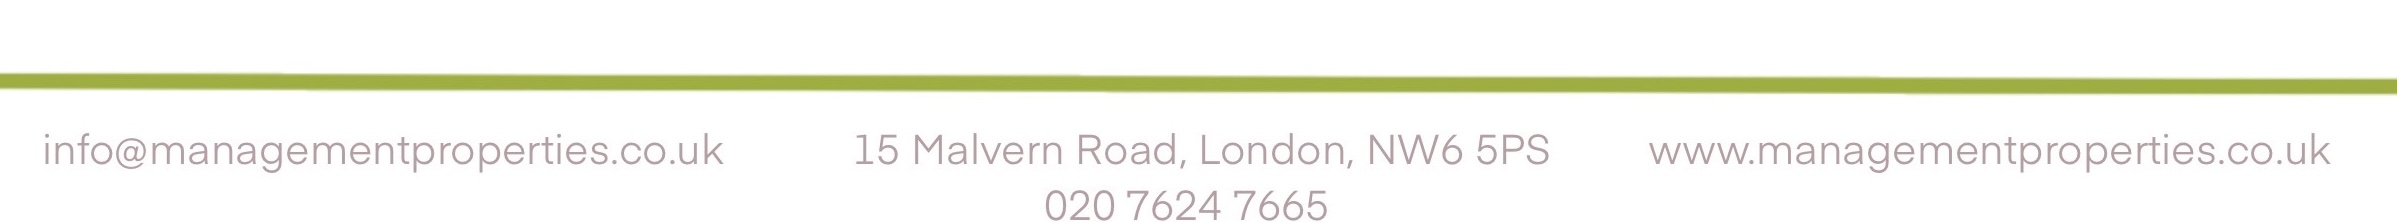
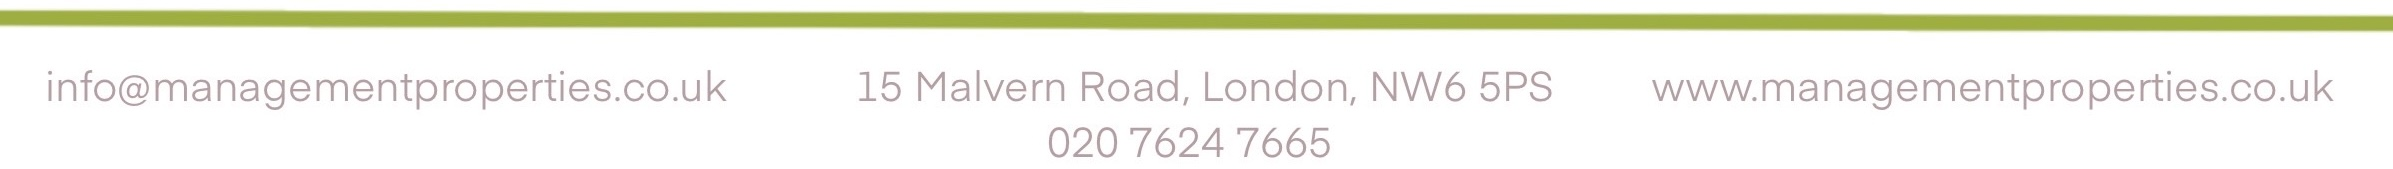
updates

diff --git a/dist/assets/index-duWpt8TT.css b/dist/assets/index-duWpt8TT.css
@@ -1,0 +1,1 @@
[1 lines of base64/hex data omitted]

diff --git a/dist/assets/index-DpU5dUUX.js b/dist/assets/index-DpU5dUUX.js
@@ -110,4 +110,4 @@ Please change the parent <Route path="${q}"> to <Route path="${q==="/"?"*":`${q}
  *
  * This source code is licensed under the ISC license.
  * See the LICENSE file in the root directory of this source tree.
- */const pM=[["path",{d:"m21 21-4.34-4.34",key:"14j7rj"}],["circle",{cx:"11",cy:"11",r:"8",key:"4ej97u"}]],gM=Oo("search",pM),vM="/assets/header-CZPyFQj8.jpg",yM="/assets/footer-wnThCqYN.jpg",Kr="#8CBF45",_M=[{title:"Letting Only",items:["Annual Fee","Sourcing a tenant","Full referencing","Arrangement of EPC’s, Gas Safety Inspections","In-house inventory"]},{title:"Rent Collection",items:["Fees collected on a Monthly basis","Monthly rental collection","Pursue non-payment of rent and advice on rent arrears","Sourcing a tenant","Full referencing","Arrangement of EPC’s, Gas Safety Inspections","In-house inventory"]},{title:"Fully Managed",items:["Fees collected on a Monthly basis","Monthly rental collection","Pursue non-payment of rent and advice on rent arrears","Sourcing a tenant","Full referencing","Arrangement of EPC’s, Gas Safety Inspections","In-house inventory","Routine inspections","First point of contact for Tenants","Obtaining quotes and arranging for repairs"]}],xM=[{title:"Other Landlord Fees",cta:"Click here",to:"#"},{title:"Tenants Fees",cta:"Click here",to:"#"}],Lh={title:"Sales",items:["On Completion","Comprehensive Marketing","Arrangement of EPC’s","Accompanied viewings if required"]};function sy({card:a}){return z.jsxs("article",{className:"rounded-lg bg-white shadow-sm ring-1 ring-zinc-200 overflow-hidden",children:[z.jsx("div",{className:"px-5 py-3 text-white font-semibold",style:{backgroundColor:Kr},children:a.title}),z.jsxs("div",{className:"p-5",children:[a.items&&z.jsx("ul",{className:"text-sm text-zinc-700",children:a.items.map((s,l)=>z.jsxs("li",{className:"py-2",children:[s,l!==a.items.length-1&&z.jsx("div",{className:"mt-2 border-t border-zinc-200/70"})]},l))}),a.cta&&z.jsx("div",{className:"mt-4",children:z.jsx(Hn,{to:a.to||"#",className:"inline-flex items-center justify-center rounded-md px-4 py-2 text-white",style:{backgroundColor:Kr},children:a.cta})})]})]})}function bM(){return z.jsxs("main",{className:"bg-zinc-50",children:[z.jsx("div",{className:"max-w-7xl mx-auto px-4 py-8",children:z.jsx("h1",{className:"text-2xl font-semibold text-zinc-900",children:"Services & Fees"})}),z.jsxs("div",{className:"max-w-7xl mx-auto px-4 pb-8 grid gap-6",children:[z.jsx("div",{className:"grid gap-6 md:grid-cols-2 lg:grid-cols-3",children:_M.map((a,s)=>z.jsx(sy,{card:a},s))}),z.jsxs("div",{className:"grid gap-6 md:grid-cols-2 lg:grid-cols-3 items-start",children:[xM.map((a,s)=>z.jsx(sy,{card:a},s)),z.jsxs("article",{className:"rounded-lg bg-white shadow-sm ring-1 ring-zinc-200 overflow-hidden lg:row-span-2",children:[z.jsx("div",{className:"px-5 py-3 text-white font-semibold",style:{backgroundColor:Kr},children:Lh.title}),z.jsxs("div",{className:"p-5",children:[z.jsx("ul",{className:"text-sm text-zinc-700",children:Lh.items.map((a,s)=>z.jsxs("li",{className:"py-2",children:[a,s!==Lh.items.length-1&&z.jsx("div",{className:"mt-2 border-t border-zinc-200/70"})]},s))}),z.jsx("div",{className:"mt-4",children:z.jsx(Hn,{to:"#",className:"inline-flex items-center justify-center rounded-md px-4 py-2 text-white",style:{backgroundColor:Kr},children:"More Info"})})]})]})]})]}),z.jsx("section",{className:"border-t py-10",style:{borderColor:Kr},children:z.jsxs("div",{className:"max-w-7xl mx-auto px-4",children:[z.jsx("h2",{className:"text-lg font-medium text-zinc-900 mb-2",children:"Need More Information?"}),z.jsxs("p",{className:"text-sm text-zinc-600",children:["One of our friendly experienced staff can answer all your questions. Call us today on"," ",z.jsx("a",{href:"tel:02084518888",className:"font-medium underline",children:"020 8451 8888"}),"."]})]})})]})}const TM=fb.icon({iconUrl:"https://unpkg.com/leaflet@1.9.4/dist/images/marker-icon.png",iconRetinaUrl:"https://unpkg.com/leaflet@1.9.4/dist/images/marker-icon-2x.png",shadowUrl:"https://unpkg.com/leaflet@1.9.4/dist/images/marker-shadow.png",iconSize:[25,41],iconAnchor:[12,41],popupAnchor:[1,-34],shadowSize:[41,41]}),ic=[{id:1,title:"Extramead Road, Kensal Green",address:"NW10 5QD",area:"Kensal Green",price:950,priceUnit:"pcm",status:"rent",beds:1,baths:1,wifi:!0,billsIncluded:!0,img:"https://images.unsplash.com/photo-1600585154526-990dced4db0d?q=80&w=1200&auto=format&fit=crop",featured:!1,coord:[51.531,-.226]},{id:2,title:"High Road, Willesden",address:"NW10 2DY",area:"Willesden",price:45e4,priceUnit:"pa",status:"sale",beds:2,baths:1,img:"https://images.unsplash.com/photo-1599423300746-b62533397364?q=80&w=1200&auto=format&fit=crop",featured:!1,coord:[51.548,-.232]},{id:3,title:"Brindley Close, Alperton",address:"HA0 1BT",area:"Alperton",price:1295,priceUnit:"pcm",status:"rent",beds:1,baths:1,img:"https://images.unsplash.com/photo-1522708323590-d24dbb6b0267?q=80&w=1200&auto=format&fit=crop",featured:!0,coord:[51.538,-.3006]},{id:4,title:"Lichfield Gardens, Willesden",address:"NW10 2LL",area:"Willesden",price:2100,priceUnit:"pcm",status:"rent",beds:3,baths:2,img:"https://images.unsplash.com/photo-1507089947368-19c1da9775ae?q=80&w=1200&auto=format&fit=crop",featured:!0,coord:[51.544,-.225]},{id:6,title:"Weston Court, Paddington",address:"W2 1ED",area:"Paddington",price:3e5,priceUnit:"pa",status:"sale",beds:1,baths:1,img:"https://images.unsplash.com/photo-1564013799919-ab600027ffc6?q=80&w=1200&auto=format&fit=crop",featured:!1,coord:[51.515,-.176]},{id:7,title:"Broadway, West Hendon",address:"NW9 7YU",area:"West Hendon",price:4400,priceUnit:"pcm",status:"rent",beds:4,baths:3,img:"https://images.unsplash.com/photo-1501183638710-841dd1904471?q=80&w=1200&auto=format&fit=crop",featured:!0,coord:[51.586,-.238]},{id:8,title:"Dollis Hill House",address:"NW10 1ED",area:"Dollis Hill",price:1700,priceUnit:"pcm",status:"rent",beds:2,baths:2,img:"https://images.unsplash.com/photo-1582268611958-ebfd161ef9cf?q=80&w=1200&auto=format&fit=crop",featured:!1,coord:[51.564,-.235]},{id:9,title:"Neasden Village Way",address:"NW10 0LH",area:"Neasden",price:15e3,priceUnit:"pa",status:"sale",beds:3,baths:2,img:"https://images.unsplash.com/photo-1536376072261-38c75010e6c9?q=80&w=1200&auto=format&fit=crop",featured:!0,coord:[51.561,-.252]},{id:10,title:"Wembley Central Studio",address:"HA9 7AA",area:"Wembley",price:1250,priceUnit:"pcm",status:"rent",beds:1,baths:1,img:"https://images.unsplash.com/photo-1560518883-ce09059eeffa?q=80&w=1200&auto=format&fit=crop",featured:!1,coord:[51.552,-.296]}];function o0(a){return new Intl.NumberFormat("en-GB",{style:"currency",currency:"GBP",maximumFractionDigits:0}).format(a)}function Ch({value:a,unit:s}){return z.jsxs("div",{className:"inline-flex items-center gap-1 rounded-full bg-emerald-50 text-emerald-700 px-2 py-1 text-xs font-medium",children:[z.jsx(mM,{className:"h-3 w-3"}),o0(a)," ",s]})}function Rh({icon:a,children:s}){return z.jsxs("div",{className:"inline-flex items-center gap-1 text-zinc-600 text-sm",children:[a,s]})}function SM(){const a="#8CBF45";return z.jsxs("header",{className:"sticky top-0 z-40",style:{backgroundColor:a},children:[z.jsx("div",{className:"w-full",style:{backgroundColor:"white"},children:z.jsx("img",{src:vM,alt:"Management Properties — Sales, Lettings & Management",className:"mx-auto object-contain",style:{height:"90px"}})}),z.jsxs("nav",{className:"max-w-7xl mx-auto px-4 py-2 flex items-center gap-6 text-sm text-white",style:{backgroundColor:a},children:[z.jsx(ja,{to:"/",end:!0,className:({isActive:s})=>s?"underline":"hover:underline",children:"Home"}),z.jsx(ja,{to:"/for-sale",className:({isActive:s})=>s?"underline":"hover:underline",children:"For Sale"}),z.jsx(ja,{to:"/for-rent",className:({isActive:s})=>s?"underline":"hover:underline",children:"For Rent"}),z.jsx(ja,{to:"/landlords",className:({isActive:s})=>s?"underline":"hover:underline",children:"Landlords"}),z.jsx(ja,{to:"/contact",className:({isActive:s})=>s?"underline":"hover:underline",children:"Contact"}),z.jsx(ja,{to:"/services",className:({isActive:s})=>s?"underline":"hover:underline",children:"Services & Fees"}),z.jsx(ja,{to:"/list",className:"ml-auto rounded-xl bg-white px-3 py-1",style:{color:a},children:"List your property"})]})]})}function wM(){return z.jsx("footer",{className:"border-t mt-8",style:{backgroundColor:"white",borderColor:"white"},children:z.jsx("img",{src:yM,alt:"Management Properties — Contact details",className:"w-full",style:{height:"120px",objectFit:"contain",objectPosition:"center"}})})}function oy({mode:a,setMode:s,q:l,setQ:u,minBeds:d,setMinBeds:g,minBaths:p,setMinBaths:b,priceFrom:y,setPriceFrom:_,priceTo:T,setPriceTo:E}){return z.jsxs(z.Fragment,{children:[z.jsxs("div",{className:"flex items-center gap-3 mb-3",children:[z.jsx("button",{onClick:()=>s("rent"),className:`px-3 py-1.5 rounded-full text-sm border ${a==="rent"?"bg-sky-600 text-white border-sky-600":"bg-white text-zinc-700 border-zinc-300"}`,children:"For Rent"}),z.jsx("button",{onClick:()=>s("sale"),className:`px-3 py-1.5 rounded-full text-sm border ${a==="sale"?"bg-sky-600 text-white border-sky-600":"bg-white text-zinc-700 border-zinc-300"}`,children:"For Sale"})]}),z.jsx("label",{className:"block text-xs font-medium text-zinc-600",children:"Location"}),z.jsxs("div",{className:"relative mt-1 mb-3",children:[z.jsx(gM,{className:"absolute left-2 top-1/2 -translate-y-1/2 h-4 w-4 text-zinc-400"}),z.jsx("input",{value:l,onChange:M=>u(M.target.value),placeholder:"Search area, street or code",className:"w-full rounded-lg border border-zinc-300 pl-8 pr-3 py-2 text-sm focus:outline-none focus:ring-2 focus:ring-sky-500"})]}),z.jsxs("div",{className:"grid grid-cols-2 gap-3",children:[z.jsxs("div",{children:[z.jsx("label",{className:"block text-xs font-medium text-zinc-600",children:"Beds (min)"}),z.jsx("select",{value:d,onChange:M=>g(Number(M.target.value)),className:"w-full rounded-lg border border-zinc-300 px-2 py-2 text-sm",children:[0,1,2,3,4].map(M=>z.jsx("option",{value:M,children:M===0?"Any":M},M))})]}),z.jsxs("div",{children:[z.jsx("label",{className:"block text-xs font-medium text-zinc-600",children:"Baths (min)"}),z.jsx("select",{value:p,onChange:M=>b(Number(M.target.value)),className:"w-full rounded-lg border border-zinc-300 px-2 py-2 text-sm",children:[0,1,2,3].map(M=>z.jsx("option",{value:M,children:M===0?"Any":M},M))})]}),z.jsxs("div",{children:[z.jsx("label",{className:"block text-xs font-medium text-zinc-600",children:"Price From"}),z.jsx("input",{type:"number",value:y,onChange:M=>_(M.target.value===""?"":Number(M.target.value)),placeholder:"Any",className:"w-full rounded-lg border border-zinc-300 px-2 py-2 text-sm"})]}),z.jsxs("div",{children:[z.jsx("label",{className:"block text-xs font-medium text-zinc-600",children:"Price To"}),z.jsx("input",{type:"number",value:T,onChange:M=>E(M.target.value===""?"":Number(M.target.value)),placeholder:"Any",className:"w-full rounded-lg border border-zinc-300 px-2 py-2 text-sm"})]})]})]})}function EM(){const[a,s]=D.useState("rent"),[l,u]=D.useState(""),[d,g]=D.useState(0),[p,b]=D.useState(0),[y,_]=D.useState(""),[T,E]=D.useState(""),M=D.useMemo(()=>ic.filter(P=>!(P.status!==a||l&&!(P.area+" "+P.title+" "+P.address).toLowerCase().includes(l.toLowerCase())||d&&P.beds<d||p&&P.baths<p||y!==""&&P.price<Number(y)||T!==""&&P.price>Number(T))),[a,l,d,p,y,T]),U=[51.544,-.23];return z.jsxs(z.Fragment,{children:[z.jsxs("section",{className:"relative",children:[z.jsx("div",{className:"lg:hidden px-4 pt-4",children:z.jsxs("div",{className:"rounded-2xl bg-white shadow-sm ring-1 ring-zinc-200 p-4",children:[z.jsx(oy,{mode:a,setMode:s,q:l,setQ:u,minBeds:d,setMinBeds:g,minBaths:p,setMinBaths:b,priceFrom:y,setPriceFrom:_,priceTo:T,setPriceTo:E}),z.jsx("div",{className:"mt-3 text-right",children:z.jsxs("span",{className:"text-xs text-zinc-500",children:[M.length," result(s)"]})})]})}),z.jsxs("div",{className:"relative h-[360px] md:h-[420px] lg:h-[480px] w-full",children:[z.jsxs(yb,{center:U,zoom:12,scrollWheelZoom:!1,className:"h-full w-full",children:[z.jsx(bb,{attribution:'© <a href="https://www.openstreetmap.org/">OpenStreetMap</a> contributors',url:"https://{s}.tile.openstreetmap.org/{z}/{x}/{y}.png"}),M.map(P=>z.jsx(_b,{position:P.coord,icon:TM,children:z.jsxs(xb,{children:[z.jsx("div",{className:"font-medium",children:P.title}),z.jsx("div",{className:"text-xs text-zinc-600 mb-1",children:P.address}),z.jsx(Ch,{value:P.price,unit:P.priceUnit})]})},P.id))]}),z.jsxs(iy.div,{initial:{opacity:0,y:-8},animate:{opacity:1,y:0},className:"hidden lg:block absolute left-20 top-6 z-[1000] w-[320px] rounded-2xl bg-white/95 shadow-xl ring-1 ring-zinc-200 p-4",children:[z.jsx(oy,{mode:a,setMode:s,q:l,setQ:u,minBeds:d,setMinBeds:g,minBaths:p,setMinBaths:b,priceFrom:y,setPriceFrom:_,priceTo:T,setPriceTo:E}),z.jsx("div",{className:"mt-3 text-right",children:z.jsxs("span",{className:"text-xs text-zinc-500",children:[M.length," result(s)"]})})]})]})]}),z.jsxs("main",{className:"max-w-7xl mx-auto px-4 py-8 grid grid-cols-1 lg:grid-cols-3 gap-8",children:[z.jsxs("section",{className:"lg:col-span-2",children:[z.jsx("h2",{className:"text-xl font-semibold mb-4",children:"Recent Properties"}),z.jsx("div",{className:"grid sm:grid-cols-2 gap-6",children:M.map(P=>z.jsxs(iy.article,{initial:{opacity:0,y:10},whileInView:{opacity:1,y:0},viewport:{once:!0},className:"overflow-hidden rounded-2xl bg-white shadow-sm ring-1 ring-zinc-200",children:[z.jsx(Hn,{to:`/property/${P.id}`,children:z.jsx("div",{className:"aspect-[16/10] w-full overflow-hidden",children:z.jsx("img",{src:P.img,alt:P.title,className:"h-full w-full object-cover"})})}),z.jsxs("div",{className:"p-4",children:[z.jsxs("div",{className:"flex items-center justify-between",children:[z.jsx("span",{className:`text-xs font-semibold rounded px-2 py-1 ${P.status==="rent"?"bg-amber-50 text-amber-700":"bg-blue-50 text-blue-700"}`,children:P.status==="rent"?"For Rent":"For Sale"}),z.jsx(Ch,{value:P.price,unit:P.priceUnit})]}),z.jsx(Hn,{to:`/property/${P.id}`,className:"mt-2 block font-semibold text-lg hover:underline",children:P.title}),z.jsxs("div",{className:"flex items-center gap-1 text-sm text-zinc-600",children:[z.jsx(hM,{className:"h-4 w-4"})," ",P.area,", ",P.address]}),z.jsxs("div",{className:"mt-3 flex items-center gap-4",children:[z.jsx(Rh,{icon:z.jsx(lM,{className:"h-4 w-4"}),children:P.beds}),z.jsx(Rh,{icon:z.jsx(oM,{className:"h-4 w-4"}),children:P.baths}),z.jsx(Rh,{icon:z.jsx(cM,{className:"h-4 w-4"}),children:P.priceUnit.toUpperCase()})]})]})]},P.id))})]}),z.jsxs("aside",{children:[z.jsx("h2",{className:"text-xl font-semibold mb-4",children:"Featured Properties"}),z.jsx("div",{className:"space-y-4",children:ic.filter(P=>P.featured).map(P=>z.jsxs(Hn,{to:`/property/${P.id}`,className:"flex gap-3 rounded-xl bg-white ring-1 ring-zinc-200 p-2 shadow-sm hover:ring-sky-300",children:[z.jsx("img",{src:P.img,alt:P.title,className:"h-20 w-28 object-cover rounded-lg"}),z.jsxs("div",{className:"flex-1",children:[z.jsx("div",{className:"text-xs text-zinc-500",children:P.area}),z.jsx("div",{className:"font-medium leading-tight",children:P.title}),z.jsx("div",{className:"text-xs text-zinc-500",children:P.address}),z.jsx("div",{className:"mt-1",children:z.jsx(Ch,{value:P.price,unit:P.priceUnit})})]})]},P.id))})]})]})]})}function r0({status:a}){const s=D.useMemo(()=>ic.filter(l=>l.status===a),[a]);return z.jsxs("main",{className:"max-w-7xl mx-auto px-4 py-8 grid grid-cols-1 lg:grid-cols-3 gap-8",children:[z.jsxs("section",{className:"lg:col-span-2",children:[z.jsx("h2",{className:"text-xl font-semibold mb-4",children:a==="rent"?"Properties for Rent":"Properties for Sale"}),z.jsx("div",{className:"grid sm:grid-cols-2 gap-6",children:s.map(l=>z.jsxs("article",{className:"overflow-hidden rounded-2xl bg-white shadow-sm ring-1 ring-zinc-200",children:[z.jsx(Hn,{to:`/property/${l.id}`,children:z.jsx("div",{className:"aspect-[16/10] w-full overflow-hidden",children:z.jsx("img",{src:l.img,alt:l.title,className:"h-full w-full object-cover"})})}),z.jsxs("div",{className:"p-4",children:[z.jsx(Hn,{to:`/property/${l.id}`,className:"font-semibold text-lg hover:underline",children:l.title}),z.jsxs("div",{className:"text-sm text-zinc-600",children:[l.area,", ",l.address]})]})]},l.id))})]}),z.jsx("aside",{children:z.jsx("h2",{className:"text-xl font-semibold mb-4",children:"Featured Properties"})})]})}function MM(){return z.jsx(r0,{status:"sale"})}function AM(){return z.jsx(r0,{status:"rent"})}function LM(){const{id:a}=l1(),s=ic.find(l=>l.id===Number(a));return s?z.jsx("main",{className:"max-w-5xl mx-auto px-4 py-8",children:z.jsxs("div",{className:"grid lg:grid-cols-5 gap-8",children:[z.jsxs("div",{className:"lg:col-span-3",children:[z.jsx("div",{className:"aspect-[16/10] w-full overflow-hidden rounded-2xl",children:z.jsx("img",{src:s.img,alt:s.title,className:"h-full w-full object-cover"})}),z.jsxs("div",{className:"mt-4 text-sm text-zinc-600",children:[s.area," • ",s.address]})]}),z.jsxs("aside",{className:"lg:col-span-2",children:[z.jsx("h1",{className:"text-2xl font-semibold",children:s.title}),z.jsxs("div",{className:"mt-3 text-lg font-medium",children:[o0(s.price)," ",s.priceUnit]}),z.jsxs("ul",{className:"mt-4 space-y-1 text-zinc-700",children:[z.jsxs("li",{children:["Bedrooms: ",s.beds]}),z.jsxs("li",{children:["Bathrooms: ",s.baths]}),z.jsxs("li",{children:["Status: ",s.status==="rent"?"For Rent":"For Sale"]})]}),z.jsx("div",{className:"mt-6",children:z.jsx(Hn,{to:"/contact",className:"rounded-xl bg-sky-600 hover:bg-sky-700 text-white px-4 py-2",children:"Arrange a viewing"})})]})]})}):z.jsxs("main",{className:"max-w-5xl mx-auto px-4 py-10",children:[z.jsx("p",{className:"text-zinc-700",children:"Property not found."}),z.jsx(Hn,{to:"/",className:"text-sky-600",children:"Back to home"})]})}function qu({text:a}){return z.jsx("main",{className:"max-w-5xl mx-auto px-4 py-10 text-zinc-700",children:a})}function CM(){return z.jsx(X1,{children:z.jsxs("div",{className:"min-h-screen bg-zinc-50 text-zinc-900",children:[z.jsx(SM,{}),z.jsxs(S1,{children:[z.jsx(ii,{path:"/",element:z.jsx(EM,{})}),z.jsx(ii,{path:"/for-sale",element:z.jsx(MM,{})}),z.jsx(ii,{path:"/for-rent",element:z.jsx(AM,{})}),z.jsx(ii,{path:"/property/:id",element:z.jsx(LM,{})}),z.jsx(ii,{path:"/landlords",element:z.jsx(qu,{text:"Landlords page (todo)"})}),z.jsx(ii,{path:"/contact",element:z.jsx(qu,{text:"Contact page (todo)"})}),z.jsx(ii,{path:"/services",element:z.jsx(bM,{})}),z.jsx(ii,{path:"/list",element:z.jsx(qu,{text:"List your property form (todo)"})}),z.jsx(ii,{path:"*",element:z.jsx(qu,{text:"404 – Page not found"})})]}),z.jsx(wM,{})]})})}Ox.createRoot(document.getElementById("root")).render(z.jsx(Iu.StrictMode,{children:z.jsx(CM,{})}));
+ */const pM=[["path",{d:"m21 21-4.34-4.34",key:"14j7rj"}],["circle",{cx:"11",cy:"11",r:"8",key:"4ej97u"}]],gM=Oo("search",pM),vM="/assets/header-CZPyFQj8.jpg",yM="/assets/footer-wnThCqYN.jpg",Kr="#8CBF45",_M=[{title:"Letting Only",items:["Annual Fee","7%","Sourcing a tenant","Full referencing","Arrangement of EPC’s, Gas Safety Inspections","In-house inventory"]},{title:"Rent Collection",items:["Fees collected on a Monthly basis","8%","Monthly rental collection","Pursue non-payment of rent and advice on rent arrears","Sourcing a tenant","Full referencing","Arrangement of EPC’s, Gas Safety Inspections","In-house inventory"]},{title:"Fully Managed",items:["Fees collected on a Monthly basis","10%","Monthly rental collection","Pursue non-payment of rent and advice on rent arrears","Sourcing a tenant","Full referencing","Arrangement of EPC’s, Gas Safety Inspections","In-house inventory","Routine inspections","First point of contact for Tenants","Obtaining quotes and arranging for repairs"]}],xM=[{title:"Other Landlord Fees",cta:"Click here",to:"#"},{title:"Tenants Fees",cta:"Click here",to:"#"}],Lh={title:"Sales",items:["On Completion","Comprehensive Marketing","Arrangement of EPC’s","Accompanied viewings if required"]};function sy({card:a}){return z.jsxs("article",{className:"rounded-lg bg-white shadow-sm ring-1 ring-zinc-200 overflow-hidden",children:[z.jsx("div",{className:"px-5 py-3 text-white font-semibold",style:{backgroundColor:Kr},children:a.title}),z.jsxs("div",{className:"p-5",children:[a.items&&z.jsx("ul",{className:"text-sm text-zinc-700",children:a.items.map((s,l)=>z.jsxs("li",{className:"py-2",children:[s,l!==a.items.length-1&&z.jsx("div",{className:"mt-2 border-t border-zinc-200/70"})]},l))}),a.cta&&z.jsx("div",{className:"mt-4",children:z.jsx(Hn,{to:a.to||"#",className:"inline-flex items-center justify-center rounded-md px-4 py-2 text-white",style:{backgroundColor:Kr},children:a.cta})})]})]})}function bM(){return z.jsxs("main",{className:"bg-zinc-50",children:[z.jsx("div",{className:"max-w-7xl mx-auto px-4 py-8",children:z.jsx("h1",{className:"text-2xl font-semibold text-zinc-900",children:"Services & Fees"})}),z.jsxs("div",{className:"max-w-7xl mx-auto px-4 pb-8 grid gap-6",children:[z.jsx("div",{className:"grid gap-6 md:grid-cols-2 lg:grid-cols-3",children:_M.map((a,s)=>z.jsx(sy,{card:a},s))}),z.jsxs("div",{className:"grid gap-6 md:grid-cols-2 lg:grid-cols-3 items-start",children:[xM.map((a,s)=>z.jsx(sy,{card:a},s)),z.jsxs("article",{className:"rounded-lg bg-white shadow-sm ring-1 ring-zinc-200 overflow-hidden lg:row-span-2",children:[z.jsx("div",{className:"px-5 py-3 text-white font-semibold",style:{backgroundColor:Kr},children:Lh.title}),z.jsxs("div",{className:"p-5",children:[z.jsx("ul",{className:"text-sm text-zinc-700",children:Lh.items.map((a,s)=>z.jsxs("li",{className:"py-2",children:[a,s!==Lh.items.length-1&&z.jsx("div",{className:"mt-2 border-t border-zinc-200/70"})]},s))}),z.jsx("div",{className:"mt-4",children:z.jsx(Hn,{to:"#",className:"inline-flex items-center justify-center rounded-md px-4 py-2 text-white",style:{backgroundColor:Kr},children:"More Info"})})]})]})]})]}),z.jsx("section",{className:"border-t py-10",style:{borderColor:Kr},children:z.jsxs("div",{className:"max-w-7xl mx-auto px-4",children:[z.jsx("h2",{className:"text-lg font-medium text-zinc-900 mb-2",children:"Need More Information?"}),z.jsxs("p",{className:"text-sm text-zinc-600",children:["One of our friendly experienced staff can answer all your questions. Call us today on"," ",z.jsx("a",{href:"tel:02084518888",className:"font-medium underline",children:"020 8451 8888"}),"."]})]})})]})}const TM=fb.icon({iconUrl:"https://unpkg.com/leaflet@1.9.4/dist/images/marker-icon.png",iconRetinaUrl:"https://unpkg.com/leaflet@1.9.4/dist/images/marker-icon-2x.png",shadowUrl:"https://unpkg.com/leaflet@1.9.4/dist/images/marker-shadow.png",iconSize:[25,41],iconAnchor:[12,41],popupAnchor:[1,-34],shadowSize:[41,41]}),ic=[{id:1,title:"Extramead Road, Kensal Green",address:"NW10 5QD",area:"Kensal Green",price:950,priceUnit:"pcm",status:"rent",beds:1,baths:1,wifi:!0,billsIncluded:!0,img:"https://images.unsplash.com/photo-1600585154526-990dced4db0d?q=80&w=1200&auto=format&fit=crop",featured:!1,coord:[51.531,-.226]},{id:2,title:"High Road, Willesden",address:"NW10 2DY",area:"Willesden",price:45e4,priceUnit:"pa",status:"sale",beds:2,baths:1,img:"https://images.unsplash.com/photo-1599423300746-b62533397364?q=80&w=1200&auto=format&fit=crop",featured:!1,coord:[51.548,-.232]},{id:3,title:"Brindley Close, Alperton",address:"HA0 1BT",area:"Alperton",price:1295,priceUnit:"pcm",status:"rent",beds:1,baths:1,img:"https://images.unsplash.com/photo-1522708323590-d24dbb6b0267?q=80&w=1200&auto=format&fit=crop",featured:!0,coord:[51.538,-.3006]},{id:4,title:"Lichfield Gardens, Willesden",address:"NW10 2LL",area:"Willesden",price:2100,priceUnit:"pcm",status:"rent",beds:3,baths:2,img:"https://images.unsplash.com/photo-1507089947368-19c1da9775ae?q=80&w=1200&auto=format&fit=crop",featured:!0,coord:[51.544,-.225]},{id:6,title:"Weston Court, Paddington",address:"W2 1ED",area:"Paddington",price:3e5,priceUnit:"pa",status:"sale",beds:1,baths:1,img:"https://images.unsplash.com/photo-1564013799919-ab600027ffc6?q=80&w=1200&auto=format&fit=crop",featured:!1,coord:[51.515,-.176]},{id:7,title:"Broadway, West Hendon",address:"NW9 7YU",area:"West Hendon",price:4400,priceUnit:"pcm",status:"rent",beds:4,baths:3,img:"https://images.unsplash.com/photo-1501183638710-841dd1904471?q=80&w=1200&auto=format&fit=crop",featured:!0,coord:[51.586,-.238]},{id:8,title:"Dollis Hill House",address:"NW10 1ED",area:"Dollis Hill",price:1700,priceUnit:"pcm",status:"rent",beds:2,baths:2,img:"https://images.unsplash.com/photo-1582268611958-ebfd161ef9cf?q=80&w=1200&auto=format&fit=crop",featured:!1,coord:[51.564,-.235]},{id:9,title:"Neasden Village Way",address:"NW10 0LH",area:"Neasden",price:15e3,priceUnit:"pa",status:"sale",beds:3,baths:2,img:"https://images.unsplash.com/photo-1536376072261-38c75010e6c9?q=80&w=1200&auto=format&fit=crop",featured:!0,coord:[51.561,-.252]},{id:10,title:"Wembley Central Studio",address:"HA9 7AA",area:"Wembley",price:1250,priceUnit:"pcm",status:"rent",beds:1,baths:1,img:"https://images.unsplash.com/photo-1560518883-ce09059eeffa?q=80&w=1200&auto=format&fit=crop",featured:!1,coord:[51.552,-.296]}];function o0(a){return new Intl.NumberFormat("en-GB",{style:"currency",currency:"GBP",maximumFractionDigits:0}).format(a)}function Ch({value:a,unit:s}){return z.jsxs("div",{className:"inline-flex items-center gap-1 rounded-full bg-emerald-50 text-emerald-700 px-2 py-1 text-xs font-medium",children:[z.jsx(mM,{className:"h-3 w-3"}),o0(a)," ",s]})}function Rh({icon:a,children:s}){return z.jsxs("div",{className:"inline-flex items-center gap-1 text-zinc-600 text-sm",children:[a,s]})}function SM(){const a="#8CBF45";return z.jsxs("header",{className:"sticky top-0 z-40",style:{backgroundColor:a},children:[z.jsx("div",{className:"w-full",style:{backgroundColor:"white"},children:z.jsx("img",{src:vM,alt:"Management Properties — Sales, Lettings & Management",className:"mx-auto object-contain",style:{height:"90px"}})}),z.jsxs("nav",{className:"max-w-7xl mx-auto px-4 py-2 flex items-center gap-6 text-sm text-white",style:{backgroundColor:a},children:[z.jsx(ja,{to:"/",end:!0,className:({isActive:s})=>s?"underline":"hover:underline",children:"Home"}),z.jsx(ja,{to:"/for-sale",className:({isActive:s})=>s?"underline":"hover:underline",children:"For Sale"}),z.jsx(ja,{to:"/for-rent",className:({isActive:s})=>s?"underline":"hover:underline",children:"For Rent"}),z.jsx(ja,{to:"/landlords",className:({isActive:s})=>s?"underline":"hover:underline",children:"Landlords"}),z.jsx(ja,{to:"/contact",className:({isActive:s})=>s?"underline":"hover:underline",children:"Contact"}),z.jsx(ja,{to:"/services",className:({isActive:s})=>s?"underline":"hover:underline",children:"Services & Fees"}),z.jsx(ja,{to:"/list",className:"ml-auto rounded-xl bg-white px-3 py-1",style:{color:a},children:"List your property"})]})]})}function wM(){return z.jsx("footer",{className:"border-t mt-8",style:{backgroundColor:"white",borderColor:"white"},children:z.jsx("img",{src:yM,alt:"Management Properties — Contact details",className:"w-full",style:{height:"120px",objectFit:"contain",objectPosition:"center"}})})}function oy({mode:a,setMode:s,q:l,setQ:u,minBeds:d,setMinBeds:g,minBaths:p,setMinBaths:b,priceFrom:y,setPriceFrom:_,priceTo:T,setPriceTo:E}){return z.jsxs(z.Fragment,{children:[z.jsxs("div",{className:"flex items-center gap-3 mb-3",children:[z.jsx("button",{onClick:()=>s("rent"),className:`px-3 py-1.5 rounded-full text-sm border ${a==="rent"?"bg-sky-600 text-white border-sky-600":"bg-white text-zinc-700 border-zinc-300"}`,children:"For Rent"}),z.jsx("button",{onClick:()=>s("sale"),className:`px-3 py-1.5 rounded-full text-sm border ${a==="sale"?"bg-sky-600 text-white border-sky-600":"bg-white text-zinc-700 border-zinc-300"}`,children:"For Sale"})]}),z.jsx("label",{className:"block text-xs font-medium text-zinc-600",children:"Location"}),z.jsxs("div",{className:"relative mt-1 mb-3",children:[z.jsx(gM,{className:"absolute left-2 top-1/2 -translate-y-1/2 h-4 w-4 text-zinc-400"}),z.jsx("input",{value:l,onChange:M=>u(M.target.value),placeholder:"Search area, street or code",className:"w-full rounded-lg border border-zinc-300 pl-8 pr-3 py-2 text-sm focus:outline-none focus:ring-2 focus:ring-sky-500"})]}),z.jsxs("div",{className:"grid grid-cols-2 gap-3",children:[z.jsxs("div",{children:[z.jsx("label",{className:"block text-xs font-medium text-zinc-600",children:"Beds (min)"}),z.jsx("select",{value:d,onChange:M=>g(Number(M.target.value)),className:"w-full rounded-lg border border-zinc-300 px-2 py-2 text-sm",children:[0,1,2,3,4].map(M=>z.jsx("option",{value:M,children:M===0?"Any":M},M))})]}),z.jsxs("div",{children:[z.jsx("label",{className:"block text-xs font-medium text-zinc-600",children:"Baths (min)"}),z.jsx("select",{value:p,onChange:M=>b(Number(M.target.value)),className:"w-full rounded-lg border border-zinc-300 px-2 py-2 text-sm",children:[0,1,2,3].map(M=>z.jsx("option",{value:M,children:M===0?"Any":M},M))})]}),z.jsxs("div",{children:[z.jsx("label",{className:"block text-xs font-medium text-zinc-600",children:"Price From"}),z.jsx("input",{type:"number",value:y,onChange:M=>_(M.target.value===""?"":Number(M.target.value)),placeholder:"Any",className:"w-full rounded-lg border border-zinc-300 px-2 py-2 text-sm"})]}),z.jsxs("div",{children:[z.jsx("label",{className:"block text-xs font-medium text-zinc-600",children:"Price To"}),z.jsx("input",{type:"number",value:T,onChange:M=>E(M.target.value===""?"":Number(M.target.value)),placeholder:"Any",className:"w-full rounded-lg border border-zinc-300 px-2 py-2 text-sm"})]})]})]})}function EM(){const[a,s]=D.useState("rent"),[l,u]=D.useState(""),[d,g]=D.useState(0),[p,b]=D.useState(0),[y,_]=D.useState(""),[T,E]=D.useState(""),M=D.useMemo(()=>ic.filter(P=>!(P.status!==a||l&&!(P.area+" "+P.title+" "+P.address).toLowerCase().includes(l.toLowerCase())||d&&P.beds<d||p&&P.baths<p||y!==""&&P.price<Number(y)||T!==""&&P.price>Number(T))),[a,l,d,p,y,T]),U=[51.544,-.23];return z.jsxs(z.Fragment,{children:[z.jsxs("section",{className:"relative",children:[z.jsx("div",{className:"lg:hidden px-4 pt-4",children:z.jsxs("div",{className:"rounded-2xl bg-white shadow-sm ring-1 ring-zinc-200 p-4",children:[z.jsx(oy,{mode:a,setMode:s,q:l,setQ:u,minBeds:d,setMinBeds:g,minBaths:p,setMinBaths:b,priceFrom:y,setPriceFrom:_,priceTo:T,setPriceTo:E}),z.jsx("div",{className:"mt-3 text-right",children:z.jsxs("span",{className:"text-xs text-zinc-500",children:[M.length," result(s)"]})})]})}),z.jsxs("div",{className:"relative h-[360px] md:h-[420px] lg:h-[480px] w-full",children:[z.jsxs(yb,{center:U,zoom:12,scrollWheelZoom:!1,className:"h-full w-full",children:[z.jsx(bb,{attribution:'© <a href="https://www.openstreetmap.org/">OpenStreetMap</a> contributors',url:"https://{s}.tile.openstreetmap.org/{z}/{x}/{y}.png"}),M.map(P=>z.jsx(_b,{position:P.coord,icon:TM,children:z.jsxs(xb,{children:[z.jsx("div",{className:"font-medium",children:P.title}),z.jsx("div",{className:"text-xs text-zinc-600 mb-1",children:P.address}),z.jsx(Ch,{value:P.price,unit:P.priceUnit})]})},P.id))]}),z.jsxs(iy.div,{initial:{opacity:0,y:-8},animate:{opacity:1,y:0},className:"hidden lg:block absolute left-20 top-6 z-[1000] w-[320px] rounded-2xl bg-white/95 shadow-xl ring-1 ring-zinc-200 p-4",children:[z.jsx(oy,{mode:a,setMode:s,q:l,setQ:u,minBeds:d,setMinBeds:g,minBaths:p,setMinBaths:b,priceFrom:y,setPriceFrom:_,priceTo:T,setPriceTo:E}),z.jsx("div",{className:"mt-3 text-right",children:z.jsxs("span",{className:"text-xs text-zinc-500",children:[M.length," result(s)"]})})]})]})]}),z.jsxs("main",{className:"max-w-7xl mx-auto px-4 py-8 grid grid-cols-1 lg:grid-cols-3 gap-8",children:[z.jsxs("section",{className:"lg:col-span-2",children:[z.jsx("h2",{className:"text-xl font-semibold mb-4",children:"Recent Properties"}),z.jsx("div",{className:"grid sm:grid-cols-2 gap-6",children:M.map(P=>z.jsxs(iy.article,{initial:{opacity:0,y:10},whileInView:{opacity:1,y:0},viewport:{once:!0},className:"overflow-hidden rounded-2xl bg-white shadow-sm ring-1 ring-zinc-200",children:[z.jsx(Hn,{to:`/property/${P.id}`,children:z.jsx("div",{className:"aspect-[16/10] w-full overflow-hidden",children:z.jsx("img",{src:P.img,alt:P.title,className:"h-full w-full object-cover"})})}),z.jsxs("div",{className:"p-4",children:[z.jsxs("div",{className:"flex items-center justify-between",children:[z.jsx("span",{className:`text-xs font-semibold rounded px-2 py-1 ${P.status==="rent"?"bg-amber-50 text-amber-700":"bg-blue-50 text-blue-700"}`,children:P.status==="rent"?"For Rent":"For Sale"}),z.jsx(Ch,{value:P.price,unit:P.priceUnit})]}),z.jsx(Hn,{to:`/property/${P.id}`,className:"mt-2 block font-semibold text-lg hover:underline",children:P.title}),z.jsxs("div",{className:"flex items-center gap-1 text-sm text-zinc-600",children:[z.jsx(hM,{className:"h-4 w-4"})," ",P.area,", ",P.address]}),z.jsxs("div",{className:"mt-3 flex items-center gap-4",children:[z.jsx(Rh,{icon:z.jsx(lM,{className:"h-4 w-4"}),children:P.beds}),z.jsx(Rh,{icon:z.jsx(oM,{className:"h-4 w-4"}),children:P.baths}),z.jsx(Rh,{icon:z.jsx(cM,{className:"h-4 w-4"}),children:P.priceUnit.toUpperCase()})]})]})]},P.id))})]}),z.jsxs("aside",{children:[z.jsx("h2",{className:"text-xl font-semibold mb-4",children:"Featured Properties"}),z.jsx("div",{className:"space-y-4",children:ic.filter(P=>P.featured).map(P=>z.jsxs(Hn,{to:`/property/${P.id}`,className:"flex gap-3 rounded-xl bg-white ring-1 ring-zinc-200 p-2 shadow-sm hover:ring-sky-300",children:[z.jsx("img",{src:P.img,alt:P.title,className:"h-20 w-28 object-cover rounded-lg"}),z.jsxs("div",{className:"flex-1",children:[z.jsx("div",{className:"text-xs text-zinc-500",children:P.area}),z.jsx("div",{className:"font-medium leading-tight",children:P.title}),z.jsx("div",{className:"text-xs text-zinc-500",children:P.address}),z.jsx("div",{className:"mt-1",children:z.jsx(Ch,{value:P.price,unit:P.priceUnit})})]})]},P.id))})]})]})]})}function r0({status:a}){const s=D.useMemo(()=>ic.filter(l=>l.status===a),[a]);return z.jsxs("main",{className:"max-w-7xl mx-auto px-4 py-8 grid grid-cols-1 lg:grid-cols-3 gap-8",children:[z.jsxs("section",{className:"lg:col-span-2",children:[z.jsx("h2",{className:"text-xl font-semibold mb-4",children:a==="rent"?"Properties for Rent":"Properties for Sale"}),z.jsx("div",{className:"grid sm:grid-cols-2 gap-6",children:s.map(l=>z.jsxs("article",{className:"overflow-hidden rounded-2xl bg-white shadow-sm ring-1 ring-zinc-200",children:[z.jsx(Hn,{to:`/property/${l.id}`,children:z.jsx("div",{className:"aspect-[16/10] w-full overflow-hidden",children:z.jsx("img",{src:l.img,alt:l.title,className:"h-full w-full object-cover"})})}),z.jsxs("div",{className:"p-4",children:[z.jsx(Hn,{to:`/property/${l.id}`,className:"font-semibold text-lg hover:underline",children:l.title}),z.jsxs("div",{className:"text-sm text-zinc-600",children:[l.area,", ",l.address]})]})]},l.id))})]}),z.jsx("aside",{children:z.jsx("h2",{className:"text-xl font-semibold mb-4",children:"Featured Properties"})})]})}function MM(){return z.jsx(r0,{status:"sale"})}function AM(){return z.jsx(r0,{status:"rent"})}function LM(){const{id:a}=l1(),s=ic.find(l=>l.id===Number(a));return s?z.jsx("main",{className:"max-w-5xl mx-auto px-4 py-8",children:z.jsxs("div",{className:"grid lg:grid-cols-5 gap-8",children:[z.jsxs("div",{className:"lg:col-span-3",children:[z.jsx("div",{className:"aspect-[16/10] w-full overflow-hidden rounded-2xl",children:z.jsx("img",{src:s.img,alt:s.title,className:"h-full w-full object-cover"})}),z.jsxs("div",{className:"mt-4 text-sm text-zinc-600",children:[s.area," • ",s.address]})]}),z.jsxs("aside",{className:"lg:col-span-2",children:[z.jsx("h1",{className:"text-2xl font-semibold",children:s.title}),z.jsxs("div",{className:"mt-3 text-lg font-medium",children:[o0(s.price)," ",s.priceUnit]}),z.jsxs("ul",{className:"mt-4 space-y-1 text-zinc-700",children:[z.jsxs("li",{children:["Bedrooms: ",s.beds]}),z.jsxs("li",{children:["Bathrooms: ",s.baths]}),z.jsxs("li",{children:["Status: ",s.status==="rent"?"For Rent":"For Sale"]})]}),z.jsx("div",{className:"mt-6",children:z.jsx(Hn,{to:"/contact",className:"rounded-xl bg-sky-600 hover:bg-sky-700 text-white px-4 py-2",children:"Arrange a viewing"})})]})]})}):z.jsxs("main",{className:"max-w-5xl mx-auto px-4 py-10",children:[z.jsx("p",{className:"text-zinc-700",children:"Property not found."}),z.jsx(Hn,{to:"/",className:"text-sky-600",children:"Back to home"})]})}function qu({text:a}){return z.jsx("main",{className:"max-w-5xl mx-auto px-4 py-10 text-zinc-700",children:a})}function CM(){return z.jsx(X1,{children:z.jsxs("div",{className:"min-h-screen bg-zinc-50 text-zinc-900",children:[z.jsx(SM,{}),z.jsxs(S1,{children:[z.jsx(ii,{path:"/",element:z.jsx(EM,{})}),z.jsx(ii,{path:"/for-sale",element:z.jsx(MM,{})}),z.jsx(ii,{path:"/for-rent",element:z.jsx(AM,{})}),z.jsx(ii,{path:"/property/:id",element:z.jsx(LM,{})}),z.jsx(ii,{path:"/landlords",element:z.jsx(qu,{text:"Landlords page (todo)"})}),z.jsx(ii,{path:"/contact",element:z.jsx(qu,{text:"Contact page (todo)"})}),z.jsx(ii,{path:"/services",element:z.jsx(bM,{})}),z.jsx(ii,{path:"/list",element:z.jsx(qu,{text:"List your property form (todo)"})}),z.jsx(ii,{path:"*",element:z.jsx(qu,{text:"404 – Page not found"})})]}),z.jsx(wM,{})]})})}Ox.createRoot(document.getElementById("root")).render(z.jsx(Iu.StrictMode,{children:z.jsx(CM,{})}));

diff --git a/src/App.tsx b/src/App.tsx
@@ -28,17 +28,17 @@ type Property = {
   id: number;
   title: string;
   address: string;
-  area: string; // e.g. Kensal Green
-  price: number; // integer
-  priceUnit: "pcm" | "pa"; // per calendar month / per annum
-  status: Status;
+  area: string;
+  price: number;
+  priceUnit: "pcm" | "pa";
+  status: "rent" | "sale";
   beds: number;
   baths: number;
-  wifi?: boolean;
-  billsIncluded?: boolean;
-  img: string;
   featured?: boolean;
-  coord: [number, number]; // [lat, lng]
+  coord: [number, number];
+  // images
+  img?: string;          // legacy single image (fallback)
+  images?: string[];     // NEW: multiple images
 };
 
 // --- Mock dataset ---
@@ -123,23 +123,27 @@ function Header() {
 function Footer() {
   return (
     <footer
-      className="border-t mt-8"
-      style={{ backgroundColor: "white", borderColor: "white" }}
+      className="border-t mt-auto" // Changed from mt-8 to mt-auto
+      style={{ 
+        backgroundColor: "white", 
+        borderColor: "white",
+        position: "sticky", // Add this
+        top: "100vh" // Add this
+      }}
     >
-        <img
-          src={footerImg}
-          alt="Management Properties — Contact details"
-          className="w-full"
-          style={{
-            height: "120px",          // fixed strip height
-            objectFit: "contain", // ✅ shows entire image, no crop
-            objectPosition: "center" // or "top"/"bottom" if you want to bias it
-          }}
-        />
+      <img
+        src={footerImg}
+        alt="Management Properties — Contact details"
+        className="w-full"
+        style={{
+          height: "120px",
+          objectFit: "contain",
+          objectPosition: "center"
+        }}
+      />
     </footer>
   );
 }
-
 
 
 function FilterForm({

diff --git a/src/pages/services.tsx b/src/pages/services.tsx
@@ -9,6 +9,7 @@ const topRow: Card[] = [
     title: "Letting Only",
     items: [
       "Annual Fee",
+      "7%",
       "Sourcing a tenant",
       "Full referencing",
       "Arrangement of EPC’s, Gas Safety Inspections",
@@ -19,6 +20,7 @@ const topRow: Card[] = [
     title: "Rent Collection",
     items: [
       "Fees collected on a Monthly basis",
+      "8%",
       "Monthly rental collection",
       "Pursue non-payment of rent and advice on rent arrears",
       "Sourcing a tenant",
@@ -31,6 +33,7 @@ const topRow: Card[] = [
     title: "Fully Managed",
     items: [
       "Fees collected on a Monthly basis",
+      "10%",
       "Monthly rental collection",
       "Pursue non-payment of rent and advice on rent arrears",
       "Sourcing a tenant",

diff --git a/dist/index.html b/dist/index.html
@@ -5,8 +5,8 @@
     <link rel="icon" type="image/svg+xml" href="/vite.svg" />
     <meta name="viewport" content="width=device-width, initial-scale=1.0" />
     <title>Vite + React + TS</title>
-    <script type="module" crossorigin src="/assets/index-DCbhDVHR.js"></script>
-    <link rel="stylesheet" crossorigin href="/assets/index-DVitL1uC.css">
+    <script type="module" crossorigin src="/assets/index-DpU5dUUX.js"></script>
+    <link rel="stylesheet" crossorigin href="/assets/index-duWpt8TT.css">
   </head>
   <body>
     <div id="root"></div>
